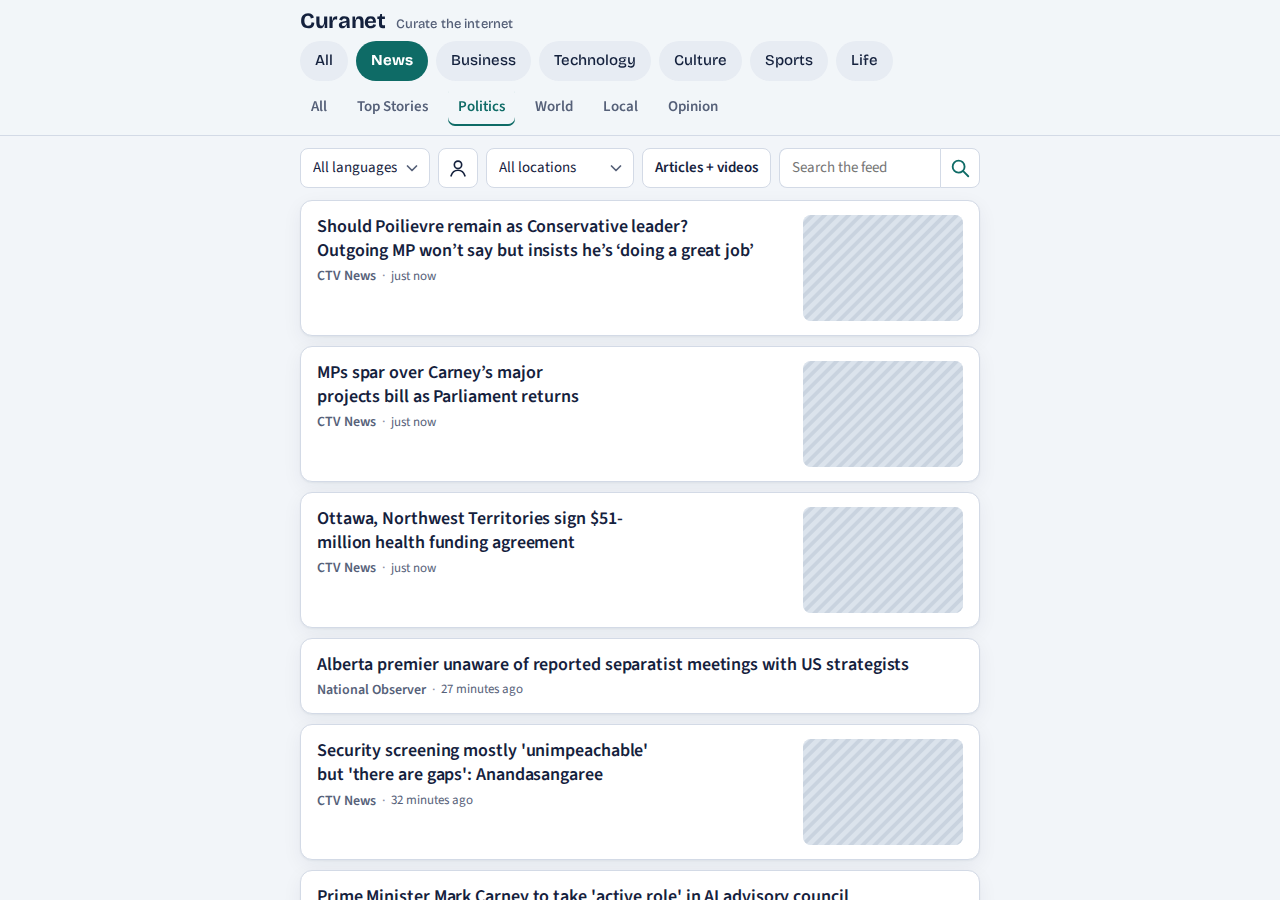
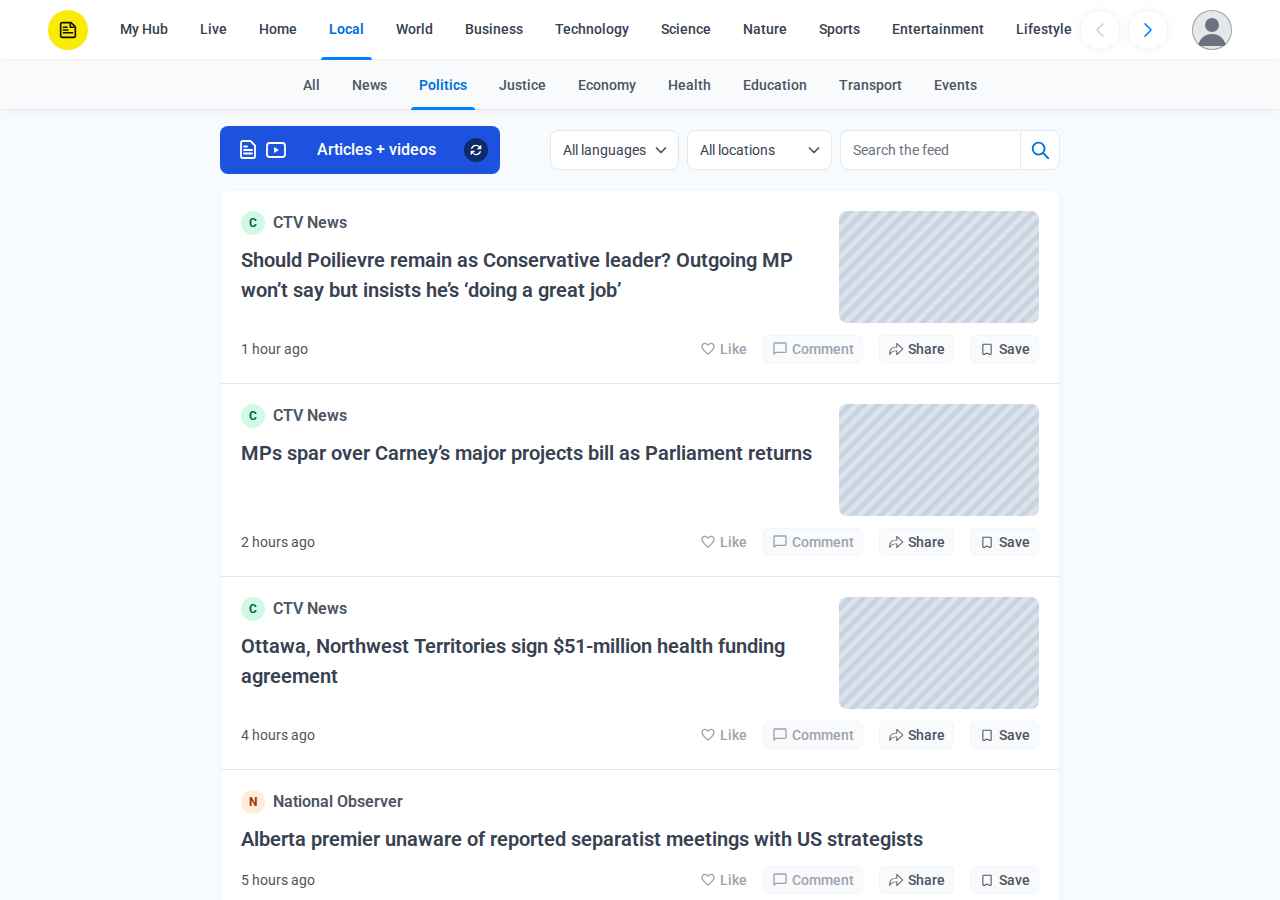
Screenshots of the redesigned outputs (placeholder images) and the preview publish record
Claude-Session: https://claude.ai/code/session_016bt8ELqYsczMAZTRFqTu7E

diff --git a/docs/PREVIEW.md b/docs/PREVIEW.md
@@ -5,7 +5,7 @@ The preview is one self-contained HTML file built by `npm run build` into `previ
 from Claude Code sessions. Republish to the same address after every rebuild.
 
 - Artifact address: https://claude.ai/artifact/G9kKUM84Wa6zbhmd7oeWL6
-- Last published: 2026-10-06 (1694 items, 1483 thumbnails embedded as 1391 distinct pictures, 11.7 MB)
+- Last published: 2026-10-06 (redesign after review: 1694 items, 1477 thumbnails embedded, 11.8 MB)
 
 How to republish (for Claude): read the artifact at the address above with the Artifact tool, then
 publish `preview/curanet-preview.html` with `url` set to that address. Do not change the icon.
